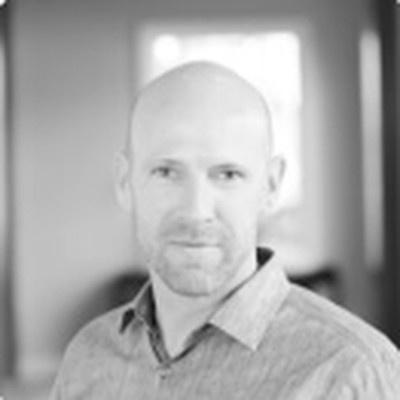
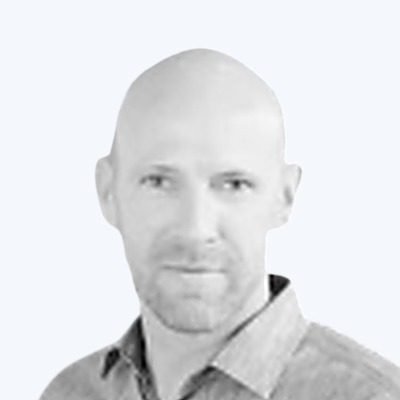
v7 About Us: no separate page for Brian; three equal cards; Branson's photo cut out
- Brian's full story, book links and press now fold under Read more on
  his card, like Branson's and Madison's. /v7/about-brian redirects to
  /v7/about.
- Banner copy speaks for the team rather than for Brian.
- Branson's headshot: background removed, tighter crop, sharpened.

Claude-Session: https://claude.ai/code/session_012Li8LDVWvHRkvw2Mk1N3ga

diff --git a/src/app/v7/about/page.tsx b/src/app/v7/about/page.tsx
@@ -33,7 +33,7 @@ export default function Page() {
   <div className="wrap in">
     <p className="kicker">About us</p>
     <h1>Built by people who have <em>done this before.</em></h1>
-    <p className="lede">Rocket Llama Labs is Brian, Branson and Madison. We build and run the whole marketing system for home service companies, and we have grown and sold companies on it ourselves.</p>
+    <p className="lede">Rocket Llama Labs is a small team with decades of experience across building businesses, growing them and designing the way they show up online. We build and run the whole marketing system for home service companies, and every piece of it is something we have done before.</p>
   </div>
 </header>
 
@@ -44,7 +44,6 @@ export default function Page() {
     <div className="story-text">
       <p className="sub">[Your story goes here. Two or three short paragraphs: where the three of you came from, what you ran before Rocket Llama Labs, and why you built a marketing system for home service companies instead of selling tactics one at a time.]</p>
       <p className="sub">[A second paragraph for what you believe about the work: owning your leads, answering in under a minute, tracking every dollar to a paid job.]</p>
-      <p className="note"><a href="/v7/about-brian">Read Brian&rsquo;s story &rarr;</a></p>
     </div>
   </div>
 </div></section>
@@ -53,7 +52,7 @@ export default function Page() {
   <p className="kicker">The team</p>
   <h2>Three people. One system.</h2>
   <div className="team">
-    <article className="card"><img className="headshot photo" src="/v2/img/brian-greenberg.jpg" alt="Brian Greenberg" /><h3>Brian Greenberg</h3><p className="role">Co-Founder and CEO</p><p>Brian has spent more than twenty years building businesses that get found online, including a fully digital insurance agency that generated $50M+ through inbound marketing. He is the author of <em>The Salesman Who Doesn&rsquo;t Sell</em> and has run local SEO for Phoenix home service companies.</p><p className="note"><a href="/v7/about-brian">Brian&rsquo;s page &rarr;</a></p></article>
+    <article className="card"><img className="headshot photo" src="/v2/img/brian-greenberg.jpg" alt="Brian Greenberg" /><h3>Brian Greenberg</h3><p className="role">Co-Founder and CEO</p><p>Brian has spent more than twenty years building businesses that get found online, including a fully digital insurance agency that generated $50M+ through inbound marketing. He is the author of <em>The Salesman Who Doesn&rsquo;t Sell</em> and has run local SEO for Phoenix home service companies.</p><details className="bio"><summary>Read more</summary><p>Entrepreneurship is the family trade. Brian learned it from his father, and it was everywhere around him: his grandfather ran his own business, and so did every one of his uncles. Growing up in Highland Park, Illinois, he never seriously considered working for anyone else. The University of Arizona&rsquo;s Eller College of Management gave him the formal version, entrepreneurship and marketing, sharpened by the McGuire Entrepreneurship Program. Then he settled in Scottsdale, Arizona, and got to work.</p><p>In 2003 Brian started two companies at once: True Blue Life Insurance and Wholesale Warehouse Supply, an e-commerce business. At True Blue he pioneered selling life insurance fully online, in all 50 states. No cold calls. No kitchen-table pitches. Content, search, funnels and automation did the selling, and the results followed: more than $1 million in annual premium for ten consecutive years, over $50 million in total revenue, and membership in the Million Dollar Round Table, the top 1% of financial professionals worldwide.</p><p>The inbound system that sold policies also powered Wholesale Warehouse Supply&rsquo;s online stores, and Brian has been delivering it to other businesses ever since. He built SEO Services Internet Marketing LLC, a digital marketing and SEO company, and later BJG Digital, a local services marketing agency that helped Phoenix pool service companies win their local market through local SEO, reviews and inbound funnels. He also leads Quoteplicity, quoting software for insurance agents whose funnels have generated more than 200,000 leads.</p><p>Rocket Llama Labs brings that playbook to local home services companies, run with modern AI tools so a small team delivers what used to take an agency floor. Brian&rsquo;s job as CEO is to keep the company pointed at the only thing that matters to a client: being the business people find first, and the one they call.</p><p>He is the author of <em>The Salesman Who Doesn&rsquo;t Sell: A Marketing Guide to Making Money While You Sleep</em>, with a foreword by Marques Colston, Super Bowl champion wide receiver. <a href="https://www.amazon.com/Salesman-Who-Doesnt-Sell-Marketing-ebook/dp/B078HMS1CQ" target="_blank" rel="noopener">Buy on Amazon</a> or <a href="https://www.audible.com/pd/The-Salesman-Who-Doesnt-Sell-A-Marketing-Guide-for-Making-Money-While-You-Sleep-Audiobook/B0794Q3418" target="_blank" rel="noopener">listen on Audible</a>. Featured in Forbes, Entrepreneur, Fast Company, HuffPost, Bloomberg, USA Today, Yahoo Finance, Fox, NBC and CBS.</p></details></article>
     <article className="card"><img className="headshot photo" src="/v7/branson-cobb.jpg" alt="Branson Cobb" /><h3>Branson Cobb</h3><p className="role">President and COO</p><p>Branson helps home service companies generate more qualified leads and grow through modern marketing, after more than 23 years leading sales, business development and client strategy for some of the country&rsquo;s largest healthcare organizations.</p><details className="bio"><summary>Read more</summary><p>Before launching Rocket Llama Labs, Branson served as Market President for CBIZ&rsquo;s Arizona and California offices, where he led market growth, business operations and client retention initiatives. Prior to CBIZ, he spent more than five years with Aetna, leading business development for Arizona&rsquo;s Public and Labor segment and helping organizations develop strategic growth initiatives.</p><p>Branson began his career at Cigna, where he spent 13 years advancing from Medical and Dental Underwriter to Senior Account Executive. His background in underwriting, analytics, account management and sales gave him a unique ability to connect financial insights with business strategy, an approach he continues to bring to every client relationship today.</p><p>At Rocket Llama Labs, Branson believes great marketing is not about chasing trends. It is about building systems that consistently generate leads, drive revenue and help business owners focus on what they do best. His forward-looking approach combines data-driven decision-making with innovative marketing strategies designed specifically for home service businesses.</p><p>Outside of work, Branson enjoys traveling, scuba diving, skiing and fishing with his dad. He earned his Bachelor of Science in Finance from the University of Arizona.</p></details></article>
     <article className="card"><div className="headshot"><span>Photo</span></div><h3>Madison</h3><p className="role">Creative digital designer and digital architect</p><p>Branding, websites and AI-powered digital solutions, built to give a business a strong and memorable online presence.</p><details className="bio"><summary>Read more</summary><p>Madison is a creative digital designer, branding specialist, AI content creator and digital architecture expert with a passion for transforming innovative ideas into meaningful digital experiences. With experience in website design, brand development, artificial intelligence and digital strategy, she specializes in creating visually compelling, functional and user-friendly solutions that help businesses establish a strong and memorable online presence.</p><p>Her expertise combines creative design with emerging technology, allowing her to develop cohesive brand identities, modern websites and AI-powered digital solutions tailored to each client&rsquo;s unique vision. As a digital architect, Madison focuses on the balance between aesthetics, functionality and strategy, ensuring every project is thoughtfully designed to enhance user experience, strengthen brand recognition and support long-term growth.</p><p>Driven by curiosity and a passion for innovation, Madison enjoys exploring new technologies, creative trends and opportunities to push the boundaries of traditional digital design. She values attention to detail, strategic thinking and bringing fresh perspectives to every project.</p><p>Outside of her professional work, Madison enjoys working out, reading and traveling. She has a strong appreciation for personal growth, wellness and discovering new places and cultures. These interests inspire her creativity, broaden her perspective and encourage her to continuously learn, evolve and approach both life and work with an open mind.</p></details></article>
   </div>

diff --git a/next.config.ts b/next.config.ts
@@ -19,6 +19,7 @@ const nextConfig: NextConfig = {
     return [
       { source: "/v3", destination: "/", permanent: false },
       { source: "/v3/:path*", destination: "/:path*", permanent: false },
+      { source: "/v7/about-brian", destination: "/v7/about", permanent: false },
     ];
   },
   // Versions 4, 5 and 6 are static pages under /public/mockups; these give

diff --git a/src/components/v7/v7.css b/src/components/v7/v7.css
@@ -454,3 +454,5 @@
 /* Story block without the photo slot: one column. */
 .v7 #story .story:not(:has(.story-side)){grid-template-columns:1fr}
 .v7 #story .story-text .sub{max-width:68ch}
+/* Links inside a folded bio. */
+.v7 .team .card details.bio a{color:var(--accent);font-weight:600}

diff --git a/scripts/make-v3.py b/scripts/make-v3.py
@@ -516,7 +516,7 @@ def write_v7_about():
         '  <div className="wrap in">\n'
         '    <p className="kicker">About us</p>\n'
         '    <h1>Built by people who have <em>done this before.</em></h1>\n'
-        '    <p className="lede">Rocket Llama Labs is Brian, Branson and Madison. We build and run the whole marketing system for home service companies, and we have grown and sold companies on it ourselves.</p>\n'
+        '    <p className="lede">Rocket Llama Labs is a small team with decades of experience across building businesses, growing them and designing the way they show up online. We build and run the whole marketing system for home service companies, and every piece of it is something we have done before.</p>\n'
         '  </div>\n'
         '</header>\n\n'
         '<section id="story" className="feature"><div className="wrap">\n'
@@ -526,7 +526,7 @@ def write_v7_about():
         '    <div className="story-text">\n'
         '      <p className="sub">[Your story goes here. Two or three short paragraphs: where the three of you came from, what you ran before Rocket Llama Labs, and why you built a marketing system for home service companies instead of selling tactics one at a time.]</p>\n'
         '      <p className="sub">[A second paragraph for what you believe about the work: owning your leads, answering in under a minute, tracking every dollar to a paid job.]</p>\n'
-        '      <p className="note"><a href="/v7/about-brian">Read Brian&rsquo;s story &rarr;</a></p>\n'
+
         '    </div>\n'
 
         '  </div>\n'
@@ -537,7 +537,13 @@ def write_v7_about():
         '  <div className="team">\n'
         '    <article className="card"><img className="headshot photo" src="/v2/img/brian-greenberg.jpg" alt="Brian Greenberg" /><h3>Brian Greenberg</h3><p className="role">Co-Founder and CEO</p>'
         '<p>Brian has spent more than twenty years building businesses that get found online, including a fully digital insurance agency that generated $50M+ through inbound marketing. He is the author of <em>The Salesman Who Doesn&rsquo;t Sell</em> and has run local SEO for Phoenix home service companies.</p>'
-        '<p className="note"><a href="/v7/about-brian">Brian&rsquo;s page &rarr;</a></p></article>\n'
+        '<details className="bio"><summary>Read more</summary>'
+        '<p>Entrepreneurship is the family trade. Brian learned it from his father, and it was everywhere around him: his grandfather ran his own business, and so did every one of his uncles. Growing up in Highland Park, Illinois, he never seriously considered working for anyone else. The University of Arizona&rsquo;s Eller College of Management gave him the formal version, entrepreneurship and marketing, sharpened by the McGuire Entrepreneurship Program. Then he settled in Scottsdale, Arizona, and got to work.</p>'
+        '<p>In 2003 Brian started two companies at once: True Blue Life Insurance and Wholesale Warehouse Supply, an e-commerce business. At True Blue he pioneered selling life insurance fully online, in all 50 states. No cold calls. No kitchen-table pitches. Content, search, funnels and automation did the selling, and the results followed: more than $1 million in annual premium for ten consecutive years, over $50 million in total revenue, and membership in the Million Dollar Round Table, the top 1% of financial professionals worldwide.</p>'
+        '<p>The inbound system that sold policies also powered Wholesale Warehouse Supply&rsquo;s online stores, and Brian has been delivering it to other businesses ever since. He built SEO Services Internet Marketing LLC, a digital marketing and SEO company, and later BJG Digital, a local services marketing agency that helped Phoenix pool service companies win their local market through local SEO, reviews and inbound funnels. He also leads Quoteplicity, quoting software for insurance agents whose funnels have generated more than 200,000 leads.</p>'
+        '<p>Rocket Llama Labs brings that playbook to local home services companies, run with modern AI tools so a small team delivers what used to take an agency floor. Brian&rsquo;s job as CEO is to keep the company pointed at the only thing that matters to a client: being the business people find first, and the one they call.</p>'
+        '<p>He is the author of <em>The Salesman Who Doesn&rsquo;t Sell: A Marketing Guide to Making Money While You Sleep</em>, with a foreword by Marques Colston, Super Bowl champion wide receiver. <a href="https://www.amazon.com/Salesman-Who-Doesnt-Sell-Marketing-ebook/dp/B078HMS1CQ" target="_blank" rel="noopener">Buy on Amazon</a> or <a href="https://www.audible.com/pd/The-Salesman-Who-Doesnt-Sell-A-Marketing-Guide-for-Making-Money-While-You-Sleep-Audiobook/B0794Q3418" target="_blank" rel="noopener">listen on Audible</a>. Featured in Forbes, Entrepreneur, Fast Company, HuffPost, Bloomberg, USA Today, Yahoo Finance, Fox, NBC and CBS.</p>'
+        '</details></article>\n'
         '    <article className="card"><img className="headshot photo" src="/v7/branson-cobb.jpg" alt="Branson Cobb" /><h3>Branson Cobb</h3><p className="role">President and COO</p>'
         '<p>Branson helps home service companies generate more qualified leads and grow through modern marketing, after more than 23 years leading sales, business development and client strategy for some of the country&rsquo;s largest healthcare organizations.</p>'
         '<details className="bio"><summary>Read more</summary>'
@@ -623,10 +629,10 @@ if __name__ == '__main__':
     patch_shared()
     build('src/app/(home)', '', 3)
     build('src/app/v7', '/v7', 7, extras=v7_extras, extra_css_import='@/components/v7/v7.css', layout_note=' The custom elements and their styles live in src/components/v7.')
-    write_v7_brian()
     write_v7_report()
     write_v7_about()
     write_v7_audit()
     write_v7_industries()
     write_v7_legal()
+    shutil.rmtree(os.path.join(root, 'src/app/v7/about-brian'), ignore_errors=True)  # no separate page for Brian on v7
     build('src/app/v8', '/v8', 8, extras=v8_extras, extra_css_import='@/components/v8/v8.css', layout_note=' The home page itself is src/components/v8/home.tsx.')
